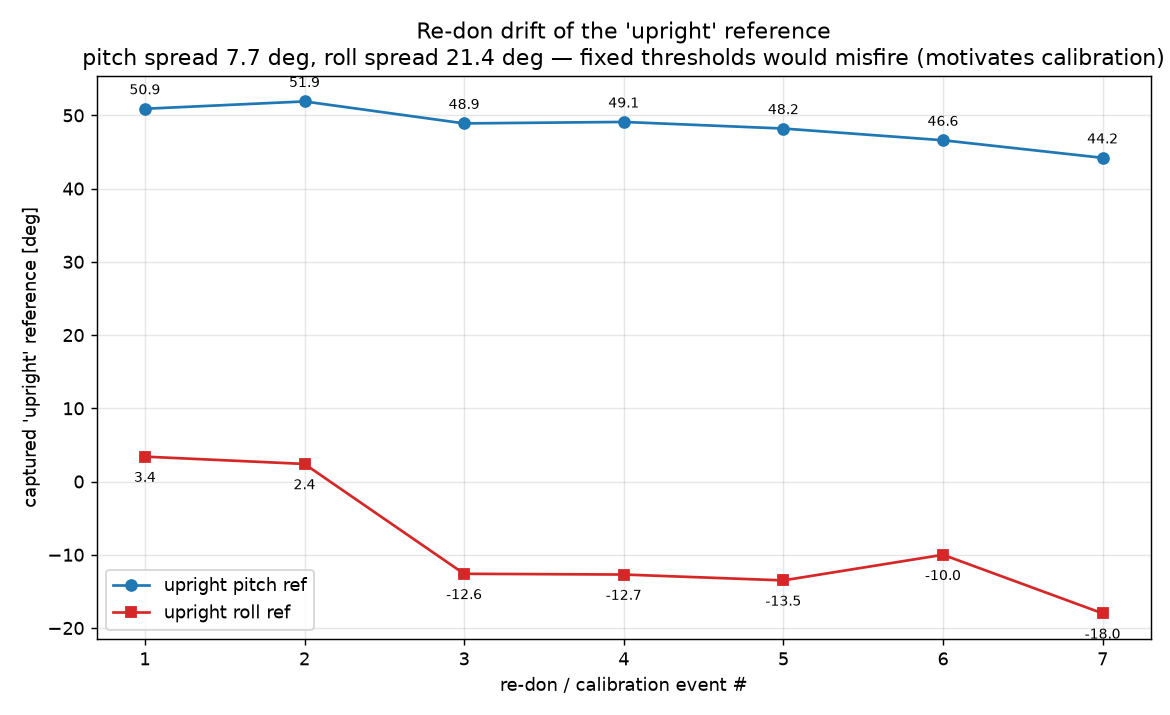
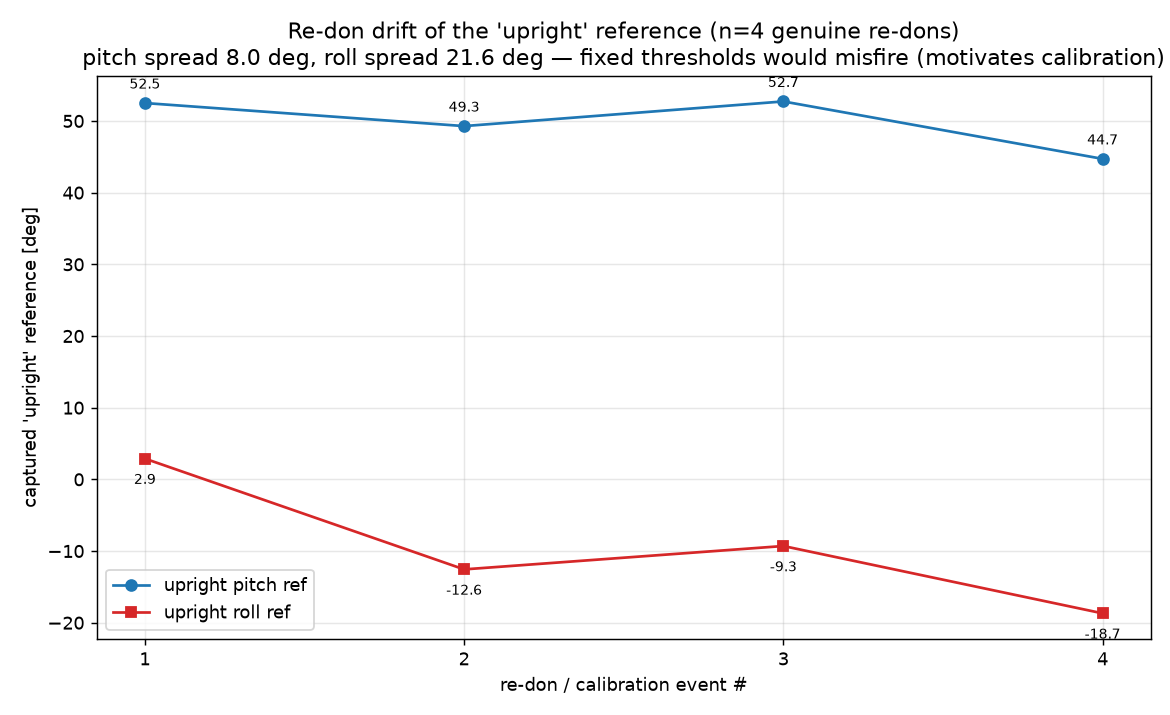
analysis: re-don figure uses n=4 genuine epochs (8.0°/21.6°)
The re-don drift figure plotted all 7 calibration presses from the
firmware-snapshot reference (pitch-dpitch), embedding a "7.7°/21.4°" title
that contradicted the report's prose (8.0°/21.6° across the 4 genuine
re-don epochs). Add postures.redon_upright_refs(): the upright reference as
the mean absolute pitch/roll over each genuine epoch's steady tag==0 hold,
dropping the 3 immediate double-presses (tag==9 junk). fig_redon now plots
those 4 points and labels n; regenerated 04_redon_drift.png matches the
report.

diff --git a/analysis/postures.py b/analysis/postures.py
@@ -172,6 +172,30 @@ def calibration_epochs(df: pd.DataFrame, tol: float = 0.05) -> list[dict]:
     return out
 
 
+def redon_upright_refs(df: pd.DataFrame) -> pd.DataFrame:
+    """Genuine re-don 'upright' references for the OE1 mounting-drift result.
+
+    Each 'c' press opens a calibration epoch (calibration_epochs); a *genuine*
+    re-don is one where an upright posture (tag==0) was actually held after the
+    press. The immediate double-presses capture only tag==9 motion and are
+    dropped. The reference is the mean absolute pitch/roll over that epoch's
+    tag==0 hold -- the exact quantity the partial report's OE1 drift
+    (8.0 deg pitch / 21.6 deg roll, n=4) is computed from (re-don figure). This
+    differs from the firmware-snapshot reference (pitch-dpitch), which over all
+    7 presses gives the looser 7.7/21.4. Returns one row per genuine epoch,
+    indexed 0..N-1 as 'event'.
+    """
+    rows = []
+    for ep in calibration_epochs(df):
+        hold = df.loc[ep["i0"]:ep["i1"]]
+        hold = hold[hold["tag"] == 0]
+        if len(hold):
+            rows.append((float(hold["pitch"].mean()),
+                         float(hold["roll"].mean()), int(len(hold))))
+    return (pd.DataFrame(rows, columns=["pitch_ref", "roll_ref", "n"])
+            .reset_index(names="event"))
+
+
 def parse_calibration_comments(path: str | Path = DEFAULT_CSV) -> pd.DataFrame:
     """Extract '# calibrated upright: pitch=.. roll=..' lines, in file order.
 

diff --git a/analysis/plot_postures.py b/analysis/plot_postures.py
@@ -138,7 +138,8 @@ def fig_redon(cals):
     pr = cals["pitch_ref"]; rr = cals["roll_ref"]
     ax.set_xlabel("re-don / calibration event #")
     ax.set_ylabel("captured 'upright' reference [deg]")
-    ax.set_title("Re-don drift of the 'upright' reference\n"
+    ax.set_title("Re-don drift of the 'upright' reference "
+                 f"(n={len(cals)} genuine re-dons)\n"
                  f"pitch spread {pr.max()-pr.min():.1f} deg, "
                  f"roll spread {rr.max()-rr.min():.1f} deg "
                  "— fixed thresholds would misfire (motivates calibration)")
@@ -220,7 +221,7 @@ def main() -> int:
         matplotlib.use("TkAgg", force=True)
 
     df = P.load(args.csv)
-    cals = P.parse_calibration_comments(args.csv)
+    cals = P.redon_upright_refs(df)
     gaps = P.calibration_events(df)
     FIG_DIR.mkdir(exist_ok=True)
 
